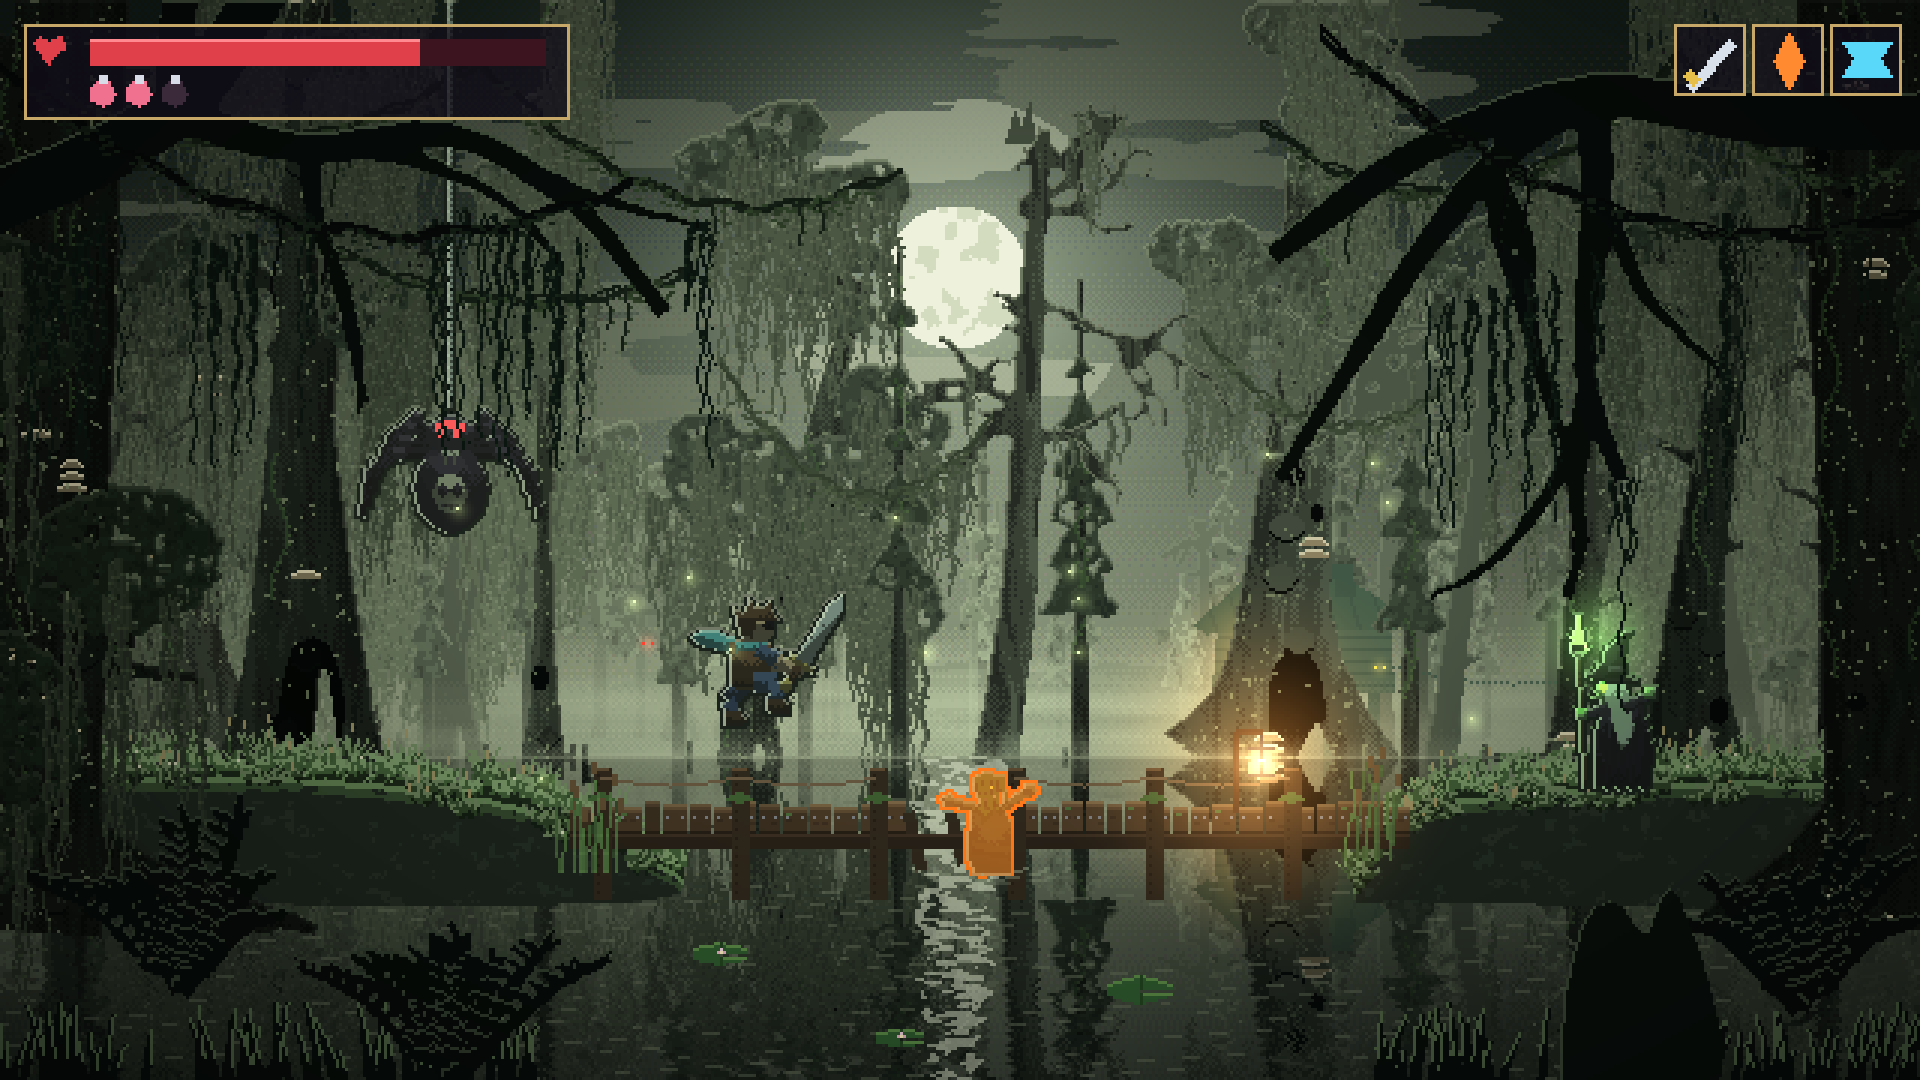
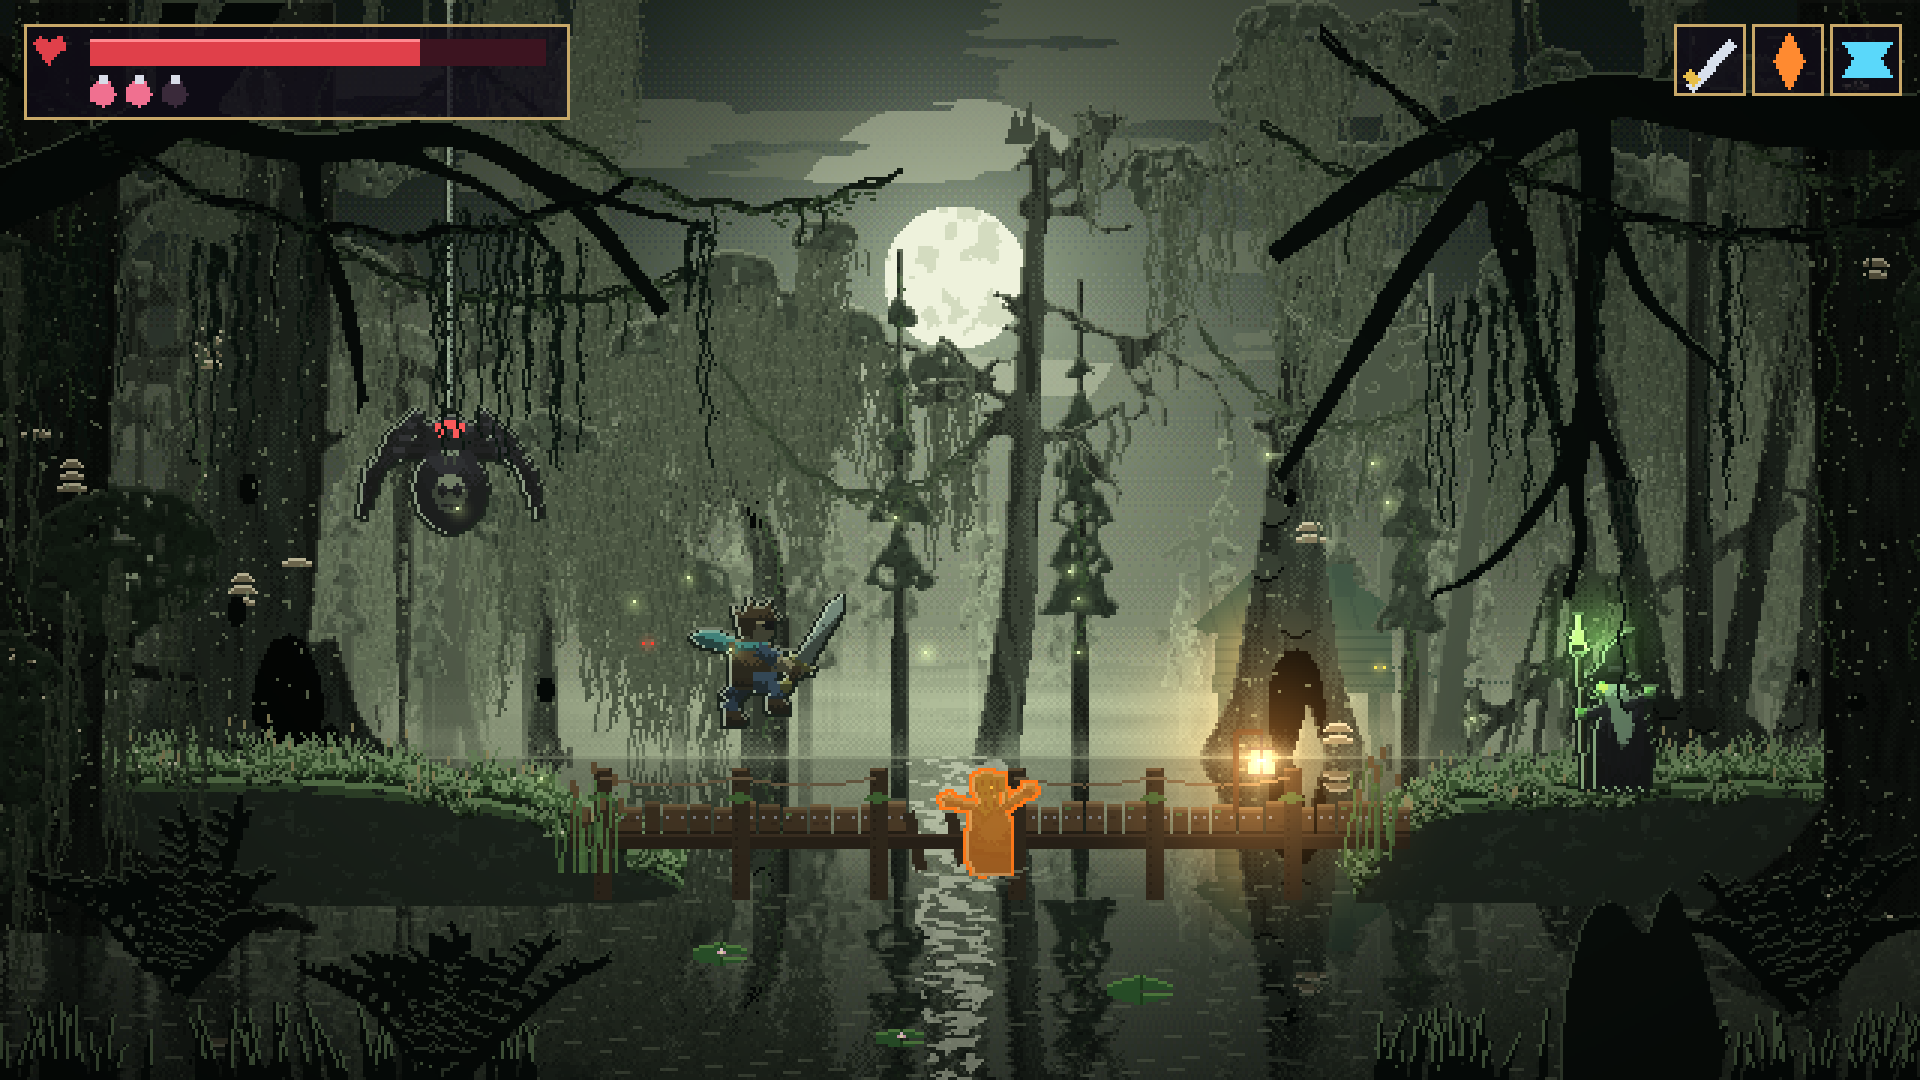
ART13b: swamp example, 12 tree templates (giant, banyan, willow, mangrove, triple, broken added) and a template sheet
Claude-Session: https://claude.ai/code/session_018E1RbT7Agev2Psz4WcAtF7

diff --git a/tools/art/final_swamp.py b/tools/art/final_swamp.py
@@ -102,12 +102,132 @@ def snag(x, base, h, w, rng):
 
 
 FORMS = ['normal', 'lean', 'twin', 'squat', 'skinny', 'hollow']
+TEMPLATES = FORMS + ['giant', 'banyan', 'willow', 'mangrove', 'triple', 'broken']
+
+
+def _crown(rng, tips, clumps, anchors, wc, p=0.55):
+    for (tx, ty) in tips:
+        anchors.append((tx, ty + 1))
+        if rng.random() < p:
+            r = wc * rng.uniform(0.9, 1.6)
+            clumps.append(ell(tx + rng.normal(0, 1), ty + rng.normal(0, 1), r * rng.uniform(1.0, 1.6), r, rng.uniform(-30, 30), 14))
+            anchors += [(tx + rng.uniform(-r, r), ty + r * 0.6) for _ in range(3)]
+
+
+def giant(x, base, h, w, rng):
+    """A giant: an enormous trunk with great buttress roots spreading wide, thick low limbs, its top out of the frame."""
+    S = [taper([(x - w * 2.2, base + 4), (x - w * 0.8, base - h * 0.15), (x, base - h * 0.6), (x + rng.normal(0, w * 0.3), base - h)],
+               w * 3.2, w * 1.3, 6)]
+    for k in range(7):
+        sd = -1 + k / 3
+        S.append(taper([(x + sd * w * 0.6, base - w * rng.uniform(1.2, 3.0)), (x + sd * w * 1.6, base - w * 0.6),
+                        (x + sd * w * rng.uniform(2.6, 4.2), base + 4)], w * rng.uniform(0.6, 1.0), 3, 6))
+    stubs(S, x, base, h, w, rng, 4)
+    clumps, anchors, tips = [], [], []
+    for k in range(int(rng.integers(4, 7))):
+        y = base - h * rng.uniform(0.45, 1.0)
+        sd = rng.choice([-1, 1])
+        crooked(S, x, y, -math.pi / 2 + sd * rng.uniform(0.7, 1.4), 9 * rng.uniform(4, 8), w * 0.7, 2, rng, tips, 0.3)
+    _crown(rng, tips, clumps, anchors, 9)
+    return S, clumps, anchors, (x, base - w * 1.4, w * 0.7, w * 1.5)
+
+
+def banyan(x, base, h, w, rng):
+    """A banyan: a wide trunk, long level limbs, curtains of aerial roots dropping straight into the water."""
+    S = [taper([(x - w * 1.5, base + 3), (x, base - h * 0.4), (x, base - h * 0.75)], w * 2.6, w * 1.2, 5)]
+    clumps, anchors, tips = [], [], []
+    for sd in (-1, 1):
+        for k in range(2):
+            y = base - h * (0.62 + k * 0.12)
+            ln = w * rng.uniform(5, 8)
+            pts = [(x, y), (x + sd * ln * 0.5, y - ln * 0.08 + rng.normal(0, 3)), (x + sd * ln, y + rng.normal(0, 4))]
+            S.append(taper(pts, w * 0.75, w * 0.3, 5))
+            for j in range(int(rng.integers(4, 8))):              # aerial roots, some reaching the water
+                t = rng.uniform(0.2, 1.0)
+                rx = x + sd * ln * t
+                ry = y - ln * 0.05
+                reach = base + 3 if rng.random() < 0.5 else ry + rng.uniform(20, 60)
+                S.append(taper([(rx, ry), (rx + rng.normal(0, 1.5), (ry + reach) / 2), (rx + rng.normal(0, 2.5), reach)],
+                               rng.uniform(1.4, 3.2), 1.0, 3))
+            crooked(S, pts[-1][0], pts[-1][1], -math.pi / 2 + sd * 0.5, 9 * 3, w * 0.4, 1, rng, tips, 0.3)
+    for k in range(10):                                          # a wide, heavy crown over everything
+        clumps.append(ell(x + rng.uniform(-w * 7, w * 7), base - h * rng.uniform(0.75, 1.0), 9 * rng.uniform(1.4, 2.4), 9 * rng.uniform(1.0, 1.6), 0, 14))
+    _crown(rng, tips, clumps, anchors, 8)
+    anchors += [(x + rng.uniform(-w * 7, w * 7), base - h * 0.72) for _ in range(20)]
+    return S, clumps, anchors, None
+
+
+def willow(x, base, h, w, rng):
+    """A weeping willow: a short leaning trunk, arching limbs, and long hanging curtains of leaves almost to the water."""
+    lean = rng.choice([-1, 1]) * w * 1.5
+    S = [taper([(x - w, base + 3), (x + lean * 0.4, base - h * 0.35), (x + lean, base - h * 0.6)], w * 2.0, w * 0.8, 5)]
+    clumps, anchors, tips = [], [], []
+    for k in range(int(rng.integers(6, 10))):
+        a = -math.pi / 2 + rng.uniform(-1.3, 1.3)
+        crooked(S, x + lean, base - h * 0.6, a, h * rng.uniform(0.25, 0.45), w * 0.45, 1, rng, tips, 0.3)
+    for (tx, ty) in tips:                                        # the arching ends droop: leaf curtains hang from them
+        clumps.append(ell(tx, ty + 4, 9 * rng.uniform(1.2, 1.8), 9 * rng.uniform(0.8, 1.2), 0, 14))
+        anchors += [(tx + rng.uniform(-14, 14), ty + 8) for _ in range(8)]
+    clumps.append(ell(x + lean, base - h * 0.75, w * 4, w * 2.4, 0, 18))
+    return S, clumps, anchors, None
+
+
+def mangrove(x, base, h, w, rng):
+    """A mangrove: the trunk starts above the water on a cage of arched stilt roots, then a round crown."""
+    top = base - h * 0.28
+    S = [taper([(x, top + 4), (x + rng.normal(0, 2), base - h * 0.7), (x + rng.normal(0, 3), base - h)], w * 1.2, w * 0.5, 5)]
+    for k in range(int(rng.integers(7, 11))):                     # prop roots arching out and down
+        sd = rng.uniform(-1, 1)
+        ex = x + sd * w * rng.uniform(3, 6)
+        S.append(taper([(x + sd * w * 0.3, top + rng.uniform(-6, 6)), (x + sd * w * 2.2, top - rng.uniform(4, 14)), (ex, base + 3)],
+                       rng.uniform(2.0, 3.6), 1.4, 5))
+    clumps, anchors, tips = [], [], []
+    for k in range(int(rng.integers(4, 7))):
+        crooked(S, x, base - h * rng.uniform(0.6, 0.95), -math.pi / 2 + rng.uniform(-1.2, 1.2), 9 * rng.uniform(2.5, 4), w * 0.45, 1, rng, tips, 0.3)
+    _crown(rng, tips, clumps, anchors, 8, 0.8)
+    clumps.append(ell(x, base - h, w * 3, w * 2, 0, 16))
+    return S, clumps, anchors, None
+
+
+def triple(x, base, h, w, rng):
+    """Three trunks splaying from one swollen base."""
+    S = [ell(x, base - w, w * 2.2, w * 1.4, 0, 18)]
+    clumps, anchors, tips = [], [], []
+    for k, a in enumerate((-0.35, 0.0, 0.3)):
+        ex = x + math.sin(a) * h * 0.6 + rng.normal(0, 4)
+        hh = h * rng.uniform(0.75, 1.0)
+        S.append(taper([(x + a * w * 2, base), (x + a * w * 2 + (ex - x) * 0.4, base - hh * 0.45), (ex, base - hh)], w * 0.95, w * 0.35, 5))
+        for j in range(3):
+            crooked(S, x + (ex - x) * (0.6 + j * 0.15), base - hh * (0.6 + j * 0.15), -math.pi / 2 + rng.uniform(-1.2, 1.2),
+                    9 * rng.uniform(2, 4), w * 0.35, 1, rng, tips, 0.35)
+    _crown(rng, tips, clumps, anchors, 8)
+    return S, clumps, anchors, None
+
+
+def broken(x, base, h, w, rng):
+    """A storm-broken tree: the trunk snapped half way, a splintered stump, the fallen top leaning into the water."""
+    sh = h * rng.uniform(0.45, 0.6)
+    S = [taper([(x - w * 1.2, base + 3), (x, base - sh * 0.4), (x, base - sh)], w * 2.2, w * 0.9, 5),
+         poly((x - w * 0.5, base - sh + 2), (x - w * 0.3, base - sh - 10), (x, base - sh - 3), (x + w * 0.2, base - sh - 14), (x + w * 0.5, base - sh + 2))]
+    sd = rng.choice([-1, 1])
+    S.append(taper([(x + sd * w, base - sh + 6), (x + sd * h * 0.35, base - sh * 0.5), (x + sd * h * 0.62, base + 4)], w * 0.8, w * 0.4, 5))
+    tips = []
+    for k in range(3):
+        t = 0.4 + k * 0.2
+        crooked(S, x + sd * h * 0.62 * t, base - sh * (1 - t) + 6, -math.pi / 2 + sd * 0.8, 9 * 2.5, w * 0.3, 1, rng, tips, 0.4)
+    stubs(S, x, base, sh, w, rng, 2)
+    return S, [], tips, None
+
+
+SPECIAL = {'giant': giant, 'banyan': banyan, 'willow': willow, 'mangrove': mangrove, 'triple': triple, 'broken': broken}
 
 
 def cypress(x, base, h, w, rng, form=None):
     """An old bald cypress in one of several forms (straight, leaning, split in two, squat and fat, tall and skinny,
     hollow at the base): a trunk flaring at the water, knees, many crooked limbs, a ragged crown, moss everywhere."""
     form = form or rng.choice(FORMS)
+    if form in SPECIAL:
+        return SPECIAL[form](x, base, h, w, rng)
     if form == 'squat':
         w, h = w * 1.5, h * 0.72
     elif form == 'skinny':
@@ -501,8 +621,8 @@ def scene():
     hut(img, 404, WATER - 52, 0.55)
     mist(img, WATER - 8, 20, 0.6, 4)
     # mid cypresses standing in the water
-    items = [(62, WATER + 2, 220, 17, 'squat'), (182, WATER + 2, 250, 6, 'skinny'), (252, WATER + 1, 160, 9, 'lean'),
-             (432, WATER + 2, 240, 20, 'hollow'), (528, WATER + 1, 200, 8, 'twin')]
+    items = [(66, WATER + 2, 210, 12, 'banyan'), (182, WATER + 2, 250, 6, 'skinny'), (262, WATER + 1, 150, 8, 'willow'),
+             (432, WATER + 2, 240, 20, 'hollow'), (530, WATER + 1, 170, 7, 'mangrove'), (606, WATER + 1, 200, 8, 'broken')]
     layer(img, items, 0.52, 21, [0.0, 0.25, 0.75], rim=0.55)
     items = [(x, WATER + 1, rng.uniform(120, 200), 8.5) for x in (30, 300, 360, 470, 610)]
     layer(img, items, 0.6, 23, [0.85, 0.15, 0.0], moss_on=False, rim=0.5)
@@ -531,7 +651,7 @@ def scene():
     fill(img, ripl, mix(SKY_LO, NEAR, 0.4), 0.5)
     img[WATER, :] = mix(img[WATER, :], MIST, 0.35)
     # big cypresses at the sides, in front of the water
-    items = [(104, WATER + 6, 340, 24, 'hollow'), (566, WATER + 8, 320, 11, 'lean')]
+    items = [(96, WATER + 6, 360, 16, 'giant'), (566, WATER + 8, 320, 11, 'triple')]
     layer(img, items, 0.78, 31, [0.0, 0.0, 1.0], rim=0.7)
     # mossy banks and the half-sunken boardwalk between them
     bank(img, [(-20, 300), (-10, 266), (60, 258), (140, 262), (196, 276), (214, 300)], 41, 0.82)
@@ -637,8 +757,38 @@ def near_camera(img):
     fill(img, stump & ~np.roll(stump, 1, 1), rimc, 0.6)
 
 
+SIZES = {'normal': (210, 8), 'lean': (200, 8), 'twin': (210, 8), 'squat': (200, 12), 'skinny': (230, 7), 'hollow': (220, 16),
+         'giant': (300, 14), 'banyan': (200, 11), 'willow': (170, 9), 'mangrove': (180, 8), 'triple': (210, 9), 'broken': (220, 9)}
+
+
+def template_sheet(path):
+    """Every tree template on its own, in the same moonlit mist, so they can be compared."""
+    from PIL import ImageDraw, ImageFont
+    font = ImageFont.truetype('/usr/share/fonts/truetype/dejavu/DejaVuSans-Bold.ttf', 22)
+    cells = []
+    for i, form in enumerate(TEMPLATES):
+        t = np.clip(YY / WATER, 0, 1)
+        img = mix(SKY_HI, SKY_LO * 0.85, (t ** 1.6)[..., None]).astype(np.float32)
+        img += (C('#dce6c4') * 0.4) * (np.clip(1 - np.hypot(XX - 320, YY - 90) / 220, 0, 1) ** 2)[..., None]
+        mist(img, WATER - 10, 24, 0.6, 4)
+        img[YY >= WATER] = img[YY >= WATER] * 0.4 + C('#0a120e') * 0.6
+        h, w = SIZES[form]
+        layer(img, [(320, WATER + 2, h, w, form)], 0.62, 300 + i * 11, [0, 0, 1])
+        im = Image.fromarray(np.clip(img * 255, 0, 255).astype(np.uint8), 'RGB').crop((120, 0, 520, 300)).resize((400 * 2, 300 * 2), Image.NEAREST)
+        cells.append((form, im))
+    cw, ch, pad, lab = 800, 600, 12, 36
+    out = Image.new('RGB', (4 * (cw + pad) + pad, 3 * (ch + lab + pad) + pad), (16, 14, 22))
+    d = ImageDraw.Draw(out)
+    for i, (form, im) in enumerate(cells):
+        x, y = pad + (i % 4) * (cw + pad), pad + (i // 4) * (ch + lab + pad)
+        d.text((x, y + 6), form, font=font, fill=(240, 236, 226))
+        out.paste(im, (x, y + lab))
+    out.save(path)
+
+
 def build():
     docs = os.path.join(ROOT, 'docs', 'art')
+    template_sheet(os.path.join(docs, 'final_example_swamp_trees.png'))
     img = scene()
     im = Image.fromarray(np.clip(img * 255, 0, 255).astype(np.uint8), 'RGB')
     big = im.resize((W * 3, H * 3), Image.NEAREST)
